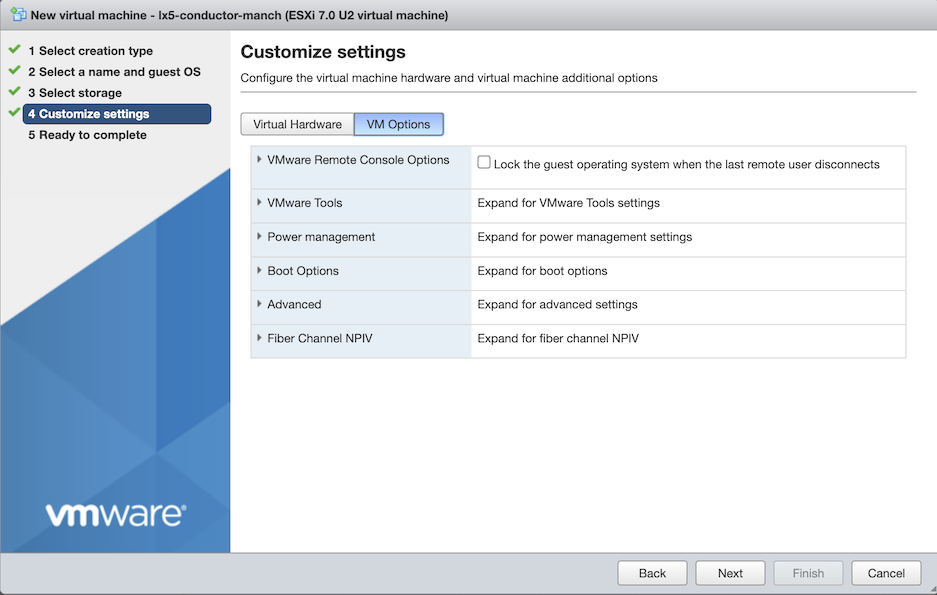
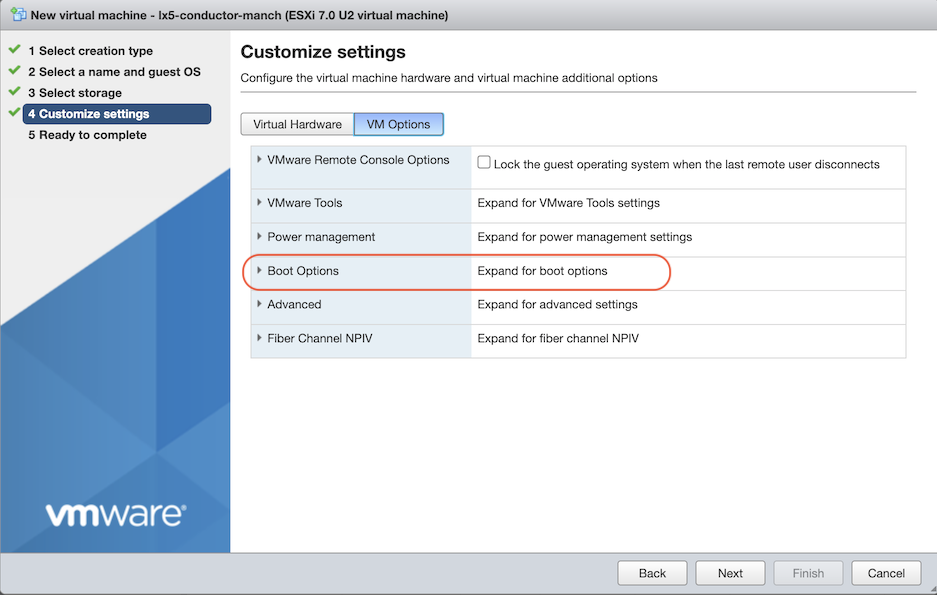
updates based on Eugene Ng's feedback and boris' email request.

Changed region(s): [[0.2476, 0.4235, 0.7118, 0.484], [0.2785, 0.484, 0.7118, 0.5143]]

diff --git a/docs/_vmware_vm_create.md b/docs/_vmware_vm_create.md
@@ -25,11 +25,11 @@ Use the steps below to configure the following:
    | Name | A descriptive name. In this example, `Conductor` |
    | Compatibility | `ESXi 7.0 U2 virtual machine` |
    | Guest OS family | `Linux` |
-   | Guest OS version | `Oracle Linux 9 (64-bit)` or highest available Oracle Linux (64-bit) version |
+   | Guest OS version | Highest available Oracle Linux (64-bit) version |
 
 3. Name the Virtual Machine **Conductor**.  
 
-4. Select **Linux** from the Guest OS family dropdown selection, and select the Guest OS version as **Oracle Linux 9 (64-bit)** or the highest available Oracle Linux (64-bit) version . Click **Next**.
+4. Select **Linux** from the Guest OS family dropdown selection, and select the Guest OS version as the highest available Oracle Linux (64-bit) version. In this example it is Oracle Linux 8, but your deplpoyment may be different. Click **Next**.
 
    ![Name VM](/img/dep3-vm-name-os.png)
 
@@ -56,6 +56,20 @@ Use the steps below to configure the following:
 
    Click **Next** when the settings are configured.
 
+### Boot Settings
+
+Secure Boot verifies the integrity of the system. Because the kernel modules of the SSR are not signed, the modules required by the network interface drivers cannot be loaded at runtime. In order to allow the loading of the necessary drivers, the Secure Boot setting in the BIOS must be disabled. 
+
+7. Click the **VM Options** tab.
+
+   ![VM Options](/img/vmware_vmoptions1.png)
+
+8. Expand **Boot Options**.
+
+9.  Verify that **EFI** is selected. 
+
+10. Click **Next**.
+
 ### Network Adapters
 
 By default, one network adapter is created. For a standalone conductor, one adapter is sufficient. Click the adapter to expand it and set the **Adapter Type** to **VMXNET3**. Set the **Network** to the management network portgroup connected to your conductor management subnet.
@@ -64,19 +78,19 @@ By default, one network adapter is created. For a standalone conductor, one adap
 
 ### CD/DVD Media - Software Selection
 
-7. As shown in the image above, expand **CD/DVD Drive 1**. 
+11. As shown in the image above, expand **CD/DVD Drive 1**. 
 
-8. Place a check next to **Connect at power on**. In the dropdown to the right, select **Datastore ISO file** and then click **Browse**. The Datastore Browser opens.
+12. Place a check next to **Connect at power on**. In the dropdown to the right, select **Datastore ISO file** and then click **Browse**. The Datastore Browser opens.
 
-9. Select the `SSR-7.1.4-3.r2.el9.x86_64.ibu-v1.iso` and click **Select**.
+13. Select the `SSR-7.1.4-3.r2.el9.x86_64.ibu-v1.iso` and click **Select**.
 
    ![CD ISO Selected](/img/dep7-vm-selectversion.png)
 
    ![Settings complete](/img/dep8-vm-all-settings.png)
 
-10. Confirm the settings, and then click **Next**.
+14. Confirm the settings, and then click **Next**.
 
-11. Review the summary, scroll to the bottom of the window and click **Finish**.
+15. Review the summary, scroll to the bottom of the window and click **Finish**.
 
    ![VM Complete](/img/dep9-vm-summary.png)
 
